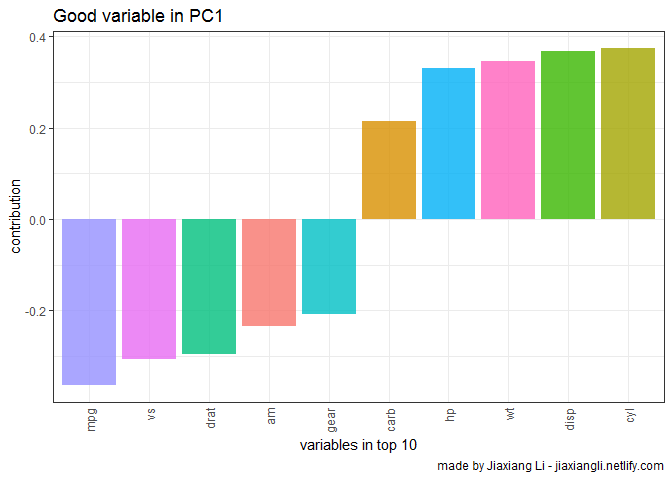
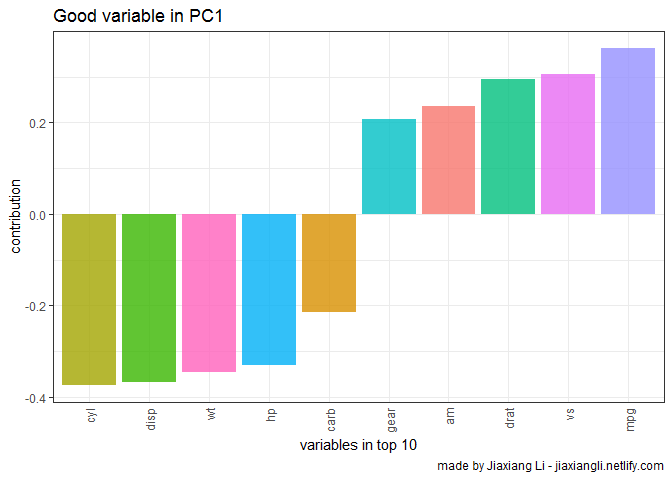
update pca

diff --git a/xiaobinghui/pca.md b/xiaobinghui/pca.md
@@ -44,17 +44,17 @@ pca_data
     ## # A tibble: 11 x 2
     ##       PC1     PC2
     ##     <dbl>   <dbl>
-    ##  1 -0.363  0.0161
-    ##  2  0.374  0.0437
-    ##  3  0.368 -0.0493
-    ##  4  0.330  0.249 
-    ##  5 -0.294  0.275 
-    ##  6  0.346 -0.143 
-    ##  7 -0.200 -0.463 
-    ##  8 -0.307 -0.232 
-    ##  9 -0.235  0.429 
-    ## 10 -0.207  0.462 
-    ## 11  0.214  0.414
+    ##  1  0.363  0.0161
+    ##  2 -0.374  0.0437
+    ##  3 -0.368 -0.0493
+    ##  4 -0.330  0.249 
+    ##  5  0.294  0.275 
+    ##  6 -0.346 -0.143 
+    ##  7  0.200 -0.463 
+    ##  8  0.307 -0.232 
+    ##  9  0.235  0.429 
+    ## 10  0.207  0.462 
+    ## 11 -0.214  0.414
 
 ``` r
 pca_data %>% 
@@ -111,7 +111,7 @@ pca_data %>%
         labs(
             x = 'variables in top 10'
             ,y = 'contribution'
-            ,title = 'Good variable in PC1'
+            ,title = 'Good variable in PC2'
             ,captionn = 'made by Jiaxiang Li - jiaxiangli.netlify.com'
         )
 ```
